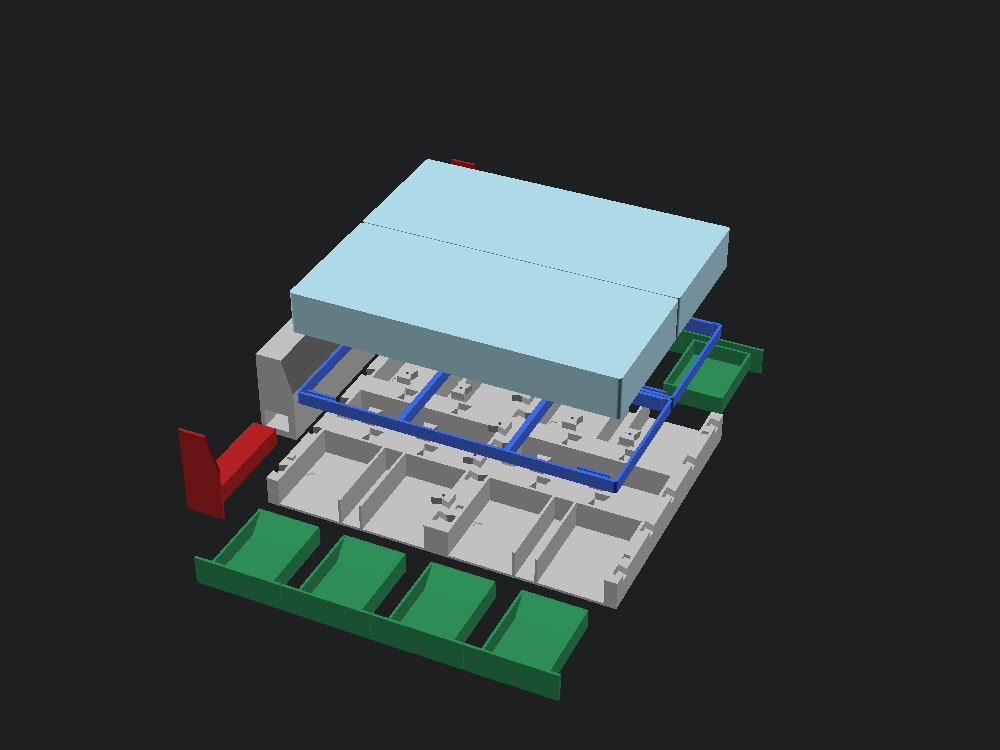
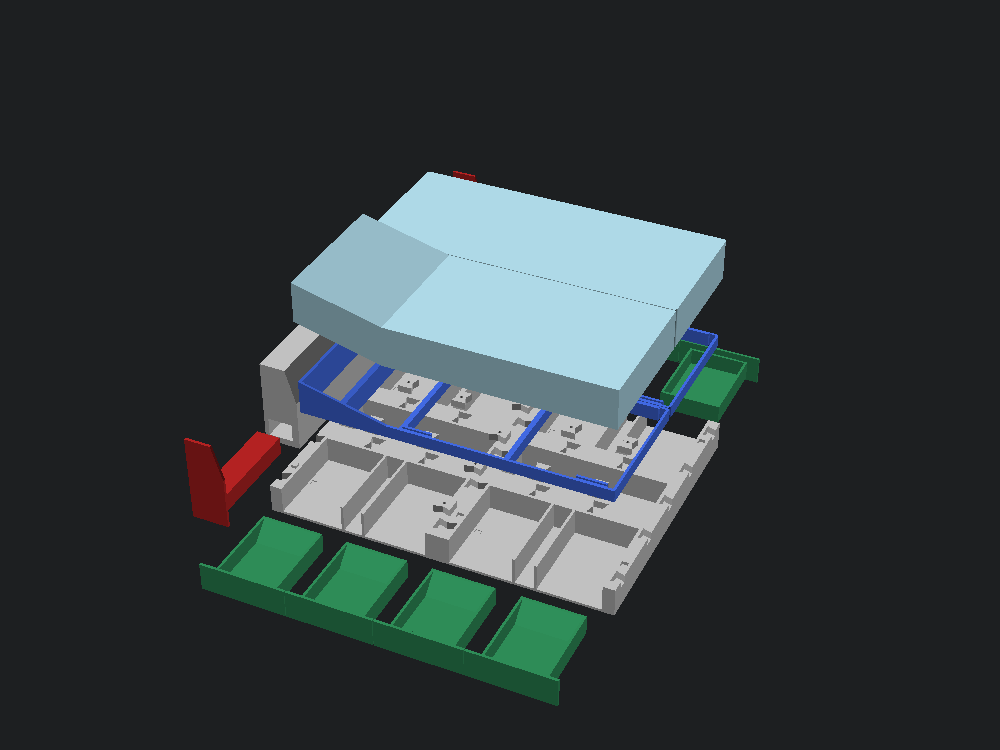
feat: add a raised-head mattress to the miniature bed
Keep one sleep half flat and pose the other at a six-inch rise over a twenty-four-inch run. Add the matching lightweight support, individual printable parts, geometric acceptance checks, and refreshed illustrations and print quantities.

Changed region(s): [[0.155, 0.2147, 0.775, 0.9507]]

diff --git a/custom-king-storage-bed/miniature/model.py b/custom-king-storage-bed/miniature/model.py
@@ -59,6 +59,9 @@ PAD = full.STRUCTURAL_SUPPORT_SIZE * MM
 LOCATOR_HEIGHT = 1.2
 RECESS_DEPTH = 1.8
 MATTRESS_SKIN = 2.4
+HEAD_RUN = 24.0*MM
+HEAD_RISE = 6.0*MM
+HEAD_ANGLE = math.degrees(math.atan2(HEAD_RISE, HEAD_RUN))
 EPS = 0.01
 
 
@@ -226,6 +229,46 @@ def make_mattress(fit):
     return result
 
 
+def sleep_profile(points):
+    face = Face(Wire.make_polygon([Vector(x, 0, z) for x, z in points], close=True))
+    return extrude(face, amount=HALF_WIDTH, dir=(0, 1, 0))
+
+
+def raised_locators():
+    return [(x, y) for x in (HEAD_RUN+10, MATTRESS_LENGTH-26)
+            for y in (2.5, HALF_WIDTH-4.3)]
+
+
+def make_raised_base():
+    envelope = sleep_profile([
+        (0, 0), (MATTRESS_LENGTH, 0), (MATTRESS_LENGTH, BASE_HEIGHT),
+        (HEAD_RUN, BASE_HEIGHT), (0, BASE_HEIGHT+HEAD_RISE),
+    ])
+    result = envelope-box(MATTRESS_LENGTH-2*WALL, HALF_WIDTH-2*WALL,
+                          BASE_HEIGHT+HEAD_RISE+2*EPS, (WALL, WALL, -EPS))
+    for x in (HEAD_RUN/2, MATTRESS_LENGTH/3, 2*MATTRESS_LENGTH/3):
+        result += envelope.intersect(box(2*WALL, HALF_WIDTH, BASE_HEIGHT+HEAD_RISE,
+                                         (x-WALL, 0, 0)))
+    for x, y in raised_locators():
+        pad_y = 0 if y == 2.5 else HALF_WIDTH-4.3
+        result += box(20, 4.3, BASE_HEIGHT, (x, pad_y, 0))
+        result += box(20, WALL, LOCATOR_HEIGHT, (x, y, BASE_HEIGHT))
+    return result
+
+
+def make_raised_mattress(fit):
+    # A fixed bent envelope, not a working hinge or a separate pillow.
+    result = sleep_profile([
+        (0, HEAD_RISE), (HEAD_RUN, 0), (MATTRESS_LENGTH, 0),
+        (MATTRESS_LENGTH, MATTRESS_HEIGHT), (HEAD_RUN, MATTRESS_HEIGHT),
+        (0, MATTRESS_HEIGHT+HEAD_RISE),
+    ])
+    for x, y in raised_locators():
+        result -= box(20+2*fit, WALL+2*fit, RECESS_DEPTH+EPS,
+                      (x-fit, y-fit, -EPS))
+    return result
+
+
 def make_coupon(fit):
     base = box(82, 32, WALL)
     for i, gap in enumerate((0.20, 0.25, 0.35)):
@@ -270,8 +313,10 @@ def parts(fit):
         "headboard": Part(make_headboard(fit), 1, 3, (0, -90, 0), "Back flat on the plate; channel roofs bridge 12.5 mm."),
         "pod-left": Part(make_pod(fit), 1, 1, (90, 0, 0), "Left end cap down for printing; assemble with flat shelf up and hollow underside down."),
         "pod-right": Part(mirror(make_pod(fit), about=Plane.XZ), 1, 1, (-90, 0, 0), "Mirrored right end cap down for printing; assemble with flat shelf up and hollow underside down."),
-        "base-insert": Part(make_base(), 2, 2, purpose="Lattice down; four mattress locators up. Static envelope only."),
-        "mattress": Part(make_mattress(fit), 2, 2, (180, 0, 0), "Top face down; hollow ribbed underside up."),
+        "base-insert": Part(make_base(), 1, 2, purpose="Flat half only: lattice down; four mattress locators up."),
+        "mattress": Part(make_mattress(fit), 1, 2, (180, 0, 0), "Flat half only: top face down; hollow ribbed underside up."),
+        "base-raised": Part(make_raised_base(), 1, 2, purpose="Raised half only: lattice down. Matching 14-degree support, four locators in the flat section."),
+        "mattress-raised": Part(make_raised_mattress(fit), 1, 2, (90, 0, 0), "Raised half only: long side down. Head rises 15.24 mm over 60.96 mm; fixed pose."),
         "fit-channels": Part(make_coupon(fit), 1, 3, purpose="Calibration only: one/two/three ticks = 0.20/0.25/0.35 mm per side."),
         "fit-slider": Part(box(15, 22, 5), 1, 4, purpose="Calibration only; flat down, slide by the protruding end."),
         "fit-connectors": Part(make_connector_coupon(fit), 1, 3, purpose="Calibration only; test one production key and one pin."),
@@ -324,9 +369,11 @@ def assembly(kit, fit, opened=False, exploded=False):
     add("pod-right", kit["pod-right"].shape,
         Pos(0, WIDTH+travel, TOP+hb_lift), "pods")
     for i, y in enumerate((full.MATTRESS_SIDE_MARGIN*MM, full.MATTRESS_SIDE_MARGIN*MM+HALF_WIDTH+MATTRESS_GAP)):
-        add(f"base-{i}", kit["base-insert"].shape,
+        base_name = "base-raised" if i == 0 else "base-insert"
+        mattress_name = "mattress-raised" if i == 0 else "mattress"
+        add(f"base-{i}", kit[base_name].shape,
             Pos(SLEEP_X, y, TOP+(65 if exploded else 0)), "bases")
-        add(f"mattress-{i}", kit["mattress"].shape,
+        add(f"mattress-{i}", kit[mattress_name].shape,
             Pos(SLEEP_X, y, TOP+BASE_HEIGHT+(110 if exploded else 0)), "mattresses")
     return objects
 
@@ -347,14 +394,25 @@ def validate(kit, fit):
         r._record(size.X <= 240 and size.Y <= 200 and size.Z <= 210,
                   f"print orientation fits 240 x 200 x 210 mm margin envelope: {size}")
         if name not in ("fit-channels",):
-            minimum = {"foot": 1.4, "base-insert": LOCATOR_HEIGHT}.get(name, WALL)
+            minimum = {"foot": 1.4, "base-insert": LOCATOR_HEIGHT, "base-raised": LOCATOR_HEIGHT}.get(name, WALL)
             r.min_wall(part.shape, minimum-0.02, samples=3)
-            if name in ("foot", "base-insert"):
+            if name in ("foot", "base-insert", "base-raised"):
                 r.note("The lower ray threshold is the intentional short locator height, not a thin handled wall.")
         r.done()
     r = Report("assembly and interfaces")
     closed = assembly(kit, fit)
     opened = assembly(kit, fit, opened=True)
+    by_name = {name: shape for name, shape, _ in closed}
+    r.note("One head section rises 6 inches over a 24-inch run; the other mattress remains flat.")
+    r.dimension(by_name["mattress-0"], "z", MATTRESS_HEIGHT+HEAD_RISE, tol=0.01)
+    r.dimension(by_name["mattress-1"], "z", MATTRESS_HEIGHT, tol=0.01)
+    r.dimension(by_name["base-0"], "z", BASE_HEIGHT+HEAD_RISE, tol=0.01)
+    normals = [face.normal_at() for face in kit["mattress-raised"].shape.faces()]
+    r._record(any(n.Z > 0.9 and abs(n.Y) < 1e-6
+                  and abs(n.X/n.Z-HEAD_RISE/HEAD_RUN) < 1e-6 for n in normals),
+              f"Raised mattress has an upward-facing {HEAD_ANGLE:.4f}-degree head surface.")
+    r.clearance(by_name["base-0"], by_name["mattress-0"], minimum=0, maximum=0.01)
+    r.dimension(kit["mattress-raised"].printable(), "z", HALF_WIDTH, tol=0.01)
     r._record(len(closed) == 48, f"48 physical pieces, got {len(closed)}")
     combined = Compound([shape for _, shape, _ in closed])
     r.dimension(combined, "x", L*2, tol=0.05)
@@ -414,7 +472,7 @@ def validate(kit, fit):
     skin_volume = (MATTRESS_LENGTH*HALF_WIDTH-(4-math.pi)*2.5**2)*MATTRESS_SKIN
     r.volume(bottom_skin, skin_volume, tol_pct=0.01)
     r.note("The mattress skin is printed directly on the plate before its vertical ribs; it is not a bridged roof.")
-    r.note("Base inserts are static envelopes; mattress split and non-telescoping pod tails are miniature adaptations.")
+    r.note("One sleep half is flat and one has a fixed raised-head pose, not a working hinge or a manufacturer articulation model.")
     r.note("No captive drawer/pod stops: open poses are display limits, not mechanical stops.")
     r.note("Physical fit, adhesion, bridge finish, and sliding friction require the included coupons and first articles.")
     r.done()
@@ -424,6 +482,8 @@ def export(kit, fit, output):
     output.mkdir(parents=True, exist_ok=True)
     manifest = {
         "scale": SCALE, "fit_per_side_mm": fit, "parts": {}, "assembly_piece_count": 48,
+        "raised_head": {"run_mm": HEAD_RUN, "rise_mm": HEAD_RISE, "angle_degrees": HEAD_ANGLE,
+                        "pose": "fixed", "side_in_preview": "left"},
         "source_sha256": {name: hashlib.sha256((ROOT/name).read_bytes()).hexdigest()
                           for name in ("model.py", "../design.py")},
     }

diff --git a/custom-king-storage-bed/miniature/pack.py b/custom-king-storage-bed/miniature/pack.py
@@ -95,6 +95,8 @@ def main():
         "",
         "Each file contains one copy, already oriented. Repeat the job to reach the total quantity. Do not print this entire list before the fit samples pass.",
         "",
+        "The sleep system uses one each of `base-insert`, `mattress`, `base-raised`, and `mattress-raised`. The head-up pair has a fixed 15.24 mm rise over 60.96 mm (14.036 degrees), matching 6 inches over a 24-inch run at full scale. Keep each mattress with its matching support.",
+        "",
         "| File | Total copies | Slot / PLA color | Size X x Y x Z, mm | Brim | Time per copy | Filament per copy |",
         "|---|---:|---|---|---:|---|---:|",
     ]

diff --git a/custom-king-storage-bed/miniature/slice.rb b/custom-king-storage-bed/miniature/slice.rb
@@ -63,7 +63,7 @@ selected.each do |name|
     mesh.match?(/^manifold = yes$/) && mesh.match?(/^number_of_parts =\s+1$/)
   File.write(File.join(BUILD, "slice-reports", "#{name}-mesh.txt"), mesh)
 
-  brim = %w[drawer foot headboard-pin seam-key pod-left pod-right base-insert mattress headboard].include?(name) ? 3 : 0
+  brim = %w[drawer foot headboard-pin seam-key pod-left pod-right base-insert mattress base-raised mattress-raised headboard].include?(name) ? 3 : 0
   x, y, z = part.fetch("size_mm")
   # Reserve the larger of the skirt or brim, plus an extrusion-width margin.
   margin = [brim, 3].max + 0.6

diff --git a/custom-king-storage-bed/miniature/README.md b/custom-king-storage-bed/miniature/README.md
@@ -6,7 +6,7 @@ A 1:10, hand-assembled interpretation of the full-size storage bed. The construc
 
 ## Start here
 
-The finished miniature is **243.2 mm long, 193.0 mm wide, and 91.4 mm high** with the nightstands closed. There are 48 production pieces, made from 11 distinct part files, plus three calibration pieces. Print one copy of a file per job and repeat it according to the quantity table. Do not slice an assembly STEP or the colored scene meshes.
+The finished miniature is **243.2 mm long, 193.0 mm wide, and 91.4 mm high** with the nightstands closed. There are 48 production pieces, made from 13 distinct part files, plus three calibration pieces. One mattress is flat and the other has a fixed raised-head pose. Print one copy of a file per job and repeat it according to the quantity table. Do not slice an assembly STEP or the colored scene meshes.
 
 The ready-oriented meshes and exact solids are in `build/parts/`. Corresponding single-part printer files are in `build/gcode/`. `build/manifest.json` is the quantity/orientation list; `build/print-summary.json` and `build/slice-reports/` contain the actual slicer settings, material use, printing time, source hashes, and g-code hashes for this build. Rebuild and re-slice together if any source or fit setting changes.
 
@@ -27,8 +27,10 @@ The [generated print plan](print-plan.md) lists measured per-copy and complete-k
 | `headboard` | 1 | 3 / silver PLA | Broad back down, not upright |
 | `pod-left` | 1 | 1 / red PLA | End cap down, shelf vertical |
 | `pod-right` | 1 | 1 / red PLA | Mirrored end cap down, shelf vertical |
-| `base-insert` | 2 | 2 / blue PLA | Lattice down, locators up |
-| `mattress` | 2 | 2 / blue PLA | Top down, underside recess up |
+| `base-insert` | 1 | 2 / blue PLA | Flat support: lattice down, locators up |
+| `mattress` | 1 | 2 / blue PLA | Flat mattress: top down, hollow underside up |
+| `base-raised` | 1 | 2 / blue PLA | Head-up support: lattice down |
+| `mattress-raised` | 1 | 2 / blue PLA | Head-up mattress: long side down |
 | `fit-channels` | 1, calibration only | 3 / silver PLA | Flat base down |
 | `fit-slider` | 1, calibration only | 4 / green PLA | Flat down |
 | `fit-connectors` | 1, calibration only | 3 / silver PLA | Pockets upward |
@@ -37,13 +39,17 @@ The two pods are genuinely handed parts: print one of each, not two copies of th
 
 ## Design contract
 
-The frame consists of four identical outside two-drawer modules and two identical center modules, arranged three across and two long. Thirteen top-loaded butterfly keys join the six modules; twelve removable feet preserve the scaled floor clearance. Each of the eight hollow drawers carries its complete finished face: a full-height half-module panel, with no finger notch and no exposed fixed frame surrounding it. Narrow seams separate the panels, and the entire panel moves with its drawer. One removable headboard locates on two square pins, with two flat-topped nightstand shelves whose whole end caps slide laterally. Each shelf is like an inverted drawer: a continuous 1.8 mm top with a hollow underside and downward side walls that ride on the channel floor. Two static adjustable-base envelopes support two separate rigid mattress pieces, hollow underneath with a 2.4 mm top skin and internal ribs to reduce material.
+The frame consists of four identical outside two-drawer modules and two identical center modules, arranged three across and two long. Thirteen top-loaded butterfly keys join the six modules; twelve removable feet preserve the scaled floor clearance. Each of the eight hollow drawers carries its complete finished face: a full-height half-module panel, with no finger notch and no exposed fixed frame surrounding it. Narrow seams separate the panels, and the entire panel moves with its drawer. One removable headboard locates on two square pins, with two flat-topped nightstand shelves whose whole end caps slide laterally. Each shelf is like an inverted drawer: a continuous 1.8 mm top with a hollow underside and downward side walls that ride on the channel floor. Separate flat and raised-head supports carry their matching rigid mattress pieces.
 
 The nominal scale is 1:10. Walls, joints, and clearances are designed in millimeters rather than blindly scaled. Handled walls start at 1.8 mm; the wider module end/back walls support the seam pockets. The separate feet and keys are deliberately simplified miniature hardware, not a reproduction of the full-size support count or load path. The foot fascia is omitted, shortening the model by 0.635 mm.
 
 The base drawer panels leave a 0.5 mm seam between adjacent faces at the default fit and conceal the supporting carcass behind them. All eight drawers remain interchangeable. Their smaller boxes are centered behind the broad faces; a lightened center divider carries their inner guide walls. Grip a panel's lower edge from below rather than reaching through a hole in its face. Inside each drawer, a 45-degree rear ramp lets the box print from its face without a long unsupported closing wall.
 
-The headboard is trimmed ahead of the sleep system instead of reproducing the provisional four-inch full-size overlap. Each nightstand has a longer hidden guide tail, allowing 40.64 mm of lateral movement with at least 28 mm still engaged. Drawers pull out 35 mm for display. Neither has a captive stop; both can be removed completely and should be supported by hand when open. The two rigid mattresses are a miniature adaptation of the full-size model's single Flex-Head mattress. The base inserts do not articulate.
+The headboard is trimmed ahead of the sleep system instead of reproducing the provisional four-inch full-size overlap. Each nightstand has a longer hidden guide tail, allowing 40.64 mm of lateral movement with at least 28 mm still engaged. Drawers pull out 35 mm for display. Neither has a captive stop; both can be removed completely and should be supported by hand when open. The two rigid mattresses are a miniature adaptation of the full-size model's single Flex-Head mattress.
+
+The raised head section emulates a 6-inch rise over the 24-inch horizontal run of a 24 x 24-inch wedge pillow: **15.24 mm rise over 60.96 mm at 1:10, or 14.036 degrees**. That slope spans the full mattress half, not just a pillow-width patch; no separate pillow is modeled. The remaining mattress length stays flat. A matching support follows the underside so the raised section does not float. This is a fixed display pose, not a working hinge or a claim about the delivered adjustable base's articulation geometry. The raised pair appears on the left in the preview; the complete pair can be placed on either side.
+
+The flat mattress has a hollow ribbed underside and a 2.4 mm skin. The raised mattress uses a continuous side profile with slicer infill instead of open internal cavities, so it can print on its long side without a suspended roof. Its matching support is an open lattice whose side rails and crossmembers follow the raised underside; it prints bottom-down. Four small locating pockets in the raised mattress's flat underside match the raised support's tabs.
 
 ## Interfaces and print orientation
 
@@ -54,13 +60,13 @@ The headboard is trimmed ahead of the sleep system instead of reproducing the pr
 | Drawers | Straight sliding fit; each full-height finished panel conceals the fixed carcass and moves with its box. | Finished face down; tray grows vertically, with a 45-degree internal rear ramp. |
 | Headboard | Two square pins locate the housing on the head modules; gravity seats it. | Housing back down; two lateral channel roofs bridge 12.5 mm. |
 | Nightstands | Flat shelves slide on their underside walls inside straight channels; hidden tails retain guidance when open. | End cap down, shelf and underside walls growing vertically. |
-| Mattress/base | Four base locators enter the hollow mattress underside inside its perimeter rim. | Bases lattice-down; mattresses top-down, hollow side up. |
+| Mattress/base | Four locators register each matching pair: the flat mattress uses its hollow rim, and the raised mattress has pockets in its flat section. | Both supports lattice-down; flat mattress top-down; raised mattress long-side-down. |
 
 Print one part per job initially. All production parts are supplied in their intended print orientation. Assemblies under `build/closed`, `build/open`, and `build/exploded` are for viewing, not slicing.
 
 ## Print settings
 
-The supplied jobs target a Prusa MK4 with a 0.4 mm nozzle and MMU3: 0.15 mm layers, 0.20 mm first layer, four perimeters, 15% gyroid infill, and six top/bottom solid layers. Supports and the wipe tower are explicitly disabled; a 3 mm skirt distance and 0.15 mm elephant-foot compensation are specified. The slicer binds perimeter, solid infill, and infill to the listed single lane. The hollow mattresses print top-down: the complete skin prints on the plate first, then the walls and ribs rise from it, so their large internal cavities do not require bridging.
+The supplied jobs target a Prusa MK4 with a 0.4 mm nozzle and MMU3: 0.15 mm layers, 0.20 mm first layer, four perimeters, 15% gyroid infill, and six top/bottom solid layers. Supports and the wipe tower are explicitly disabled; a 3 mm skirt distance and 0.15 mm elephant-foot compensation are specified. The slicer binds perimeter, solid infill, and infill to the listed single lane. The hollow flat mattress prints top-down: the complete skin prints on the plate first, then the walls and ribs rise from it. The raised mattress prints on its long side, with regular infill supporting subsequent layers. Both lattice supports print bottom-down, including the raised support's sloped rails.
 
 The drawers, headboard, both pods, both mattress jobs, base inserts, feet, keys, and pins use a 3 mm outer brim. Remove it without shaving mating surfaces. Other jobs have no brim. Clean the smooth PEI sheet and inspect the first layer. The headboard's printed channel roofs span 12.5 mm; the small horizontal pin pockets span 4.5 mm at the default fit. Check those openings for sagging before inserting a pod or pin. Each nightstand prints standing on its broad end cap, so its flat shelf surface grows vertically instead of bridging the underside cavity. Base drawers likewise print on their complete faces, with an internal ramp supporting the rear closure.
 
@@ -85,8 +91,8 @@ If the default binds, rebuild with `--fit 0.35`, regenerate g-code, and repeat t
 5. **Insert the eight drawers.** Keep the open box up and its complete finished panel facing out. Push gently until the panel seats against the outside edge. The closed panels cover the fixed frame and leave only narrow seams. Pull from the bottom edge of the panel; there is no finger cutout. The 35 mm open display position leaves useful support under the box.
 6. **Fit the headboard.** The headboard is at the end nearest the mattress head, with its broad flat back facing away from the bed and its sloping front facing the foot. Put one square pin in each of the two corresponding module-top holes, then lower the housing onto them. The housing rests on the chassis, not on the pins.
 7. **Insert the handed nightstands.** Feed each long guide tail into its side channel with the continuous flat shelf facing upward and the hollow underside facing down. The underside walls bear on the channel floor; the channel sides and ceiling guide the retained tail. The red end cap continues the headboard's slope when closed. Pull outward no more than about 41 mm for display; support it by hand because there is no captive end stop.
-8. **Place the two blue base inserts.** Their long edges run head-to-foot. Place their head edges 25.4 mm from the back end of the chassis, just ahead of the headboard. Center them with 5.08 mm side margins and a 0.6 mm gap between halves; the foot margin is about 4.45 mm. They rest on the module tops without fasteners.
-9. **Seat the two mattresses.** Turn them top-up, recess-down, and lower each over the four small locator tabs on its own base. The two pieces remain independently removable.
+8. **Place the two different blue supports.** Use one `base-insert` and one `base-raised`, with their long edges head-to-foot and the raised end toward the headboard. Place their head edges 25.4 mm from the back end of the chassis, just ahead of the headboard. Center them with 5.08 mm side margins and a 0.6 mm gap between halves; the foot margin is about 4.45 mm. They rest on the module tops without fasteners. Keep each support with its matching mattress when swapping sides.
+9. **Seat the two different mattresses.** Put `mattress` on `base-insert`, hollow side down. Put `mattress-raised` on `base-raised`, elevated end toward the headboard, with the four underside pockets over the matching tabs in the flat section. Both mattresses remain independently removable. Print one of each sleep-system file, not two copies of the former flat pair.
 
 ```text
                     HEADBOARD

diff --git a/custom-king-storage-bed/miniature/print-plan.md b/custom-king-storage-bed/miniature/print-plan.md
@@ -12,6 +12,8 @@ Print the three calibration pieces, one production seam key, and one production 
 
 Each file contains one copy, already oriented. Repeat the job to reach the total quantity. Do not print this entire list before the fit samples pass.
 
+The sleep system uses one each of `base-insert`, `mattress`, `base-raised`, and `mattress-raised`. The head-up pair has a fixed 15.24 mm rise over 60.96 mm (14.036 degrees), matching 6 inches over a 24-inch run at full scale. Keep each mattress with its matching support.
+
 | File | Total copies | Slot / PLA color | Size X x Y x Z, mm | Brim | Time per copy | Filament per copy |
 |---|---:|---|---|---:|---|---:|
 | [`side-module.bgcode`](build/gcode/side-module.bgcode) | 4 | 3 / silver | 121.6 x 69.2 x 20.3 | 0 mm | 1h 36m 2s | 48.78 g |
@@ -23,13 +25,15 @@ Each file contains one copy, already oriented. Repeat the job to reach the total
 | [`headboard.bgcode`](build/gcode/headboard.bgcode) | 1 | 3 / silver | 58.4 x 188.7 x 24.9 | 3 mm | 3h 27m 0s | 98.33 g |
 | [`pod-left.bgcode`](build/gcode/pod-left.bgcode) | 1 | 1 / red | 24.9 x 58.4 x 72.0 | 3 mm | 1h 13m 10s | 9.44 g |
 | [`pod-right.bgcode`](build/gcode/pod-right.bgcode) | 1 | 1 / red | 24.9 x 58.4 x 72.0 | 3 mm | 1h 13m 14s | 9.44 g |
-| [`base-insert.bgcode`](build/gcode/base-insert.bgcode) | 2 | 2 / blue | 213.4 x 91.1 x 9.5 | 3 mm | 39m 45s | 19.92 g |
-| [`mattress.bgcode`](build/gcode/mattress.bgcode) | 2 | 2 / blue | 213.4 x 91.1 x 27.9 | 3 mm | 3h 12m 39s | 112.70 g |
+| [`base-insert.bgcode`](build/gcode/base-insert.bgcode) | 1 | 2 / blue | 213.4 x 91.1 x 9.5 | 3 mm | 39m 44s | 19.92 g |
+| [`mattress.bgcode`](build/gcode/mattress.bgcode) | 1 | 2 / blue | 213.4 x 91.1 x 27.9 | 3 mm | 3h 12m 39s | 112.70 g |
+| [`base-raised.bgcode`](build/gcode/base-raised.bgcode) | 1 | 2 / blue | 213.4 x 91.1 x 23.5 | 3 mm | 1h 2m 11s | 30.89 g |
+| [`mattress-raised.bgcode`](build/gcode/mattress-raised.bgcode) | 1 | 2 / blue | 213.4 x 43.2 x 91.1 | 3 mm | 7h 20m 14s | 194.82 g |
 | [`fit-channels.bgcode`](build/gcode/fit-channels.bgcode) | 1 (sample) | 3 / silver | 82.0 x 32.0 x 7.0 | 0 mm | 19m 11s | 8.42 g |
 | [`fit-slider.bgcode`](build/gcode/fit-slider.bgcode) | 1 (sample) | 4 / green | 15.0 x 22.0 x 5.0 | 0 mm | 6m 15s | 1.61 g |
 | [`fit-connectors.bgcode`](build/gcode/fit-connectors.bgcode) | 1 (sample) | 3 / silver | 34.0 x 24.0 x 8.0 | 0 mm | 13m 40s | 5.02 g |
 
-**Production totals:** 36h 01m 04s and 811.18 g. **Three calibration pieces:** 0h 39m 06s and 15.05 g, in addition to production totals. The tested key and pin are already included in production totals.
+**Production totals:** 40h 31m 04s and 904.27 g. **Three calibration pieces:** 0h 39m 06s and 15.05 g, in addition to production totals. The tested key and pin are already included in production totals.
 
 These are PrusaSlicer estimates summed across separate single-copy jobs, not elapsed project time. They exclude loading, unloading, plate cleaning, cooldown, assembly, retries, and failed prints. Batching or changing profiles will change the numbers.
 
